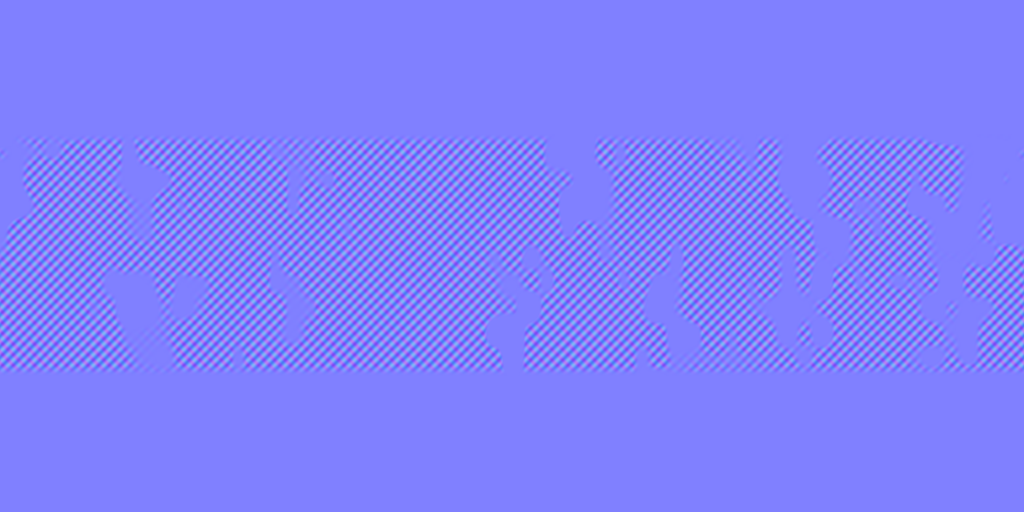
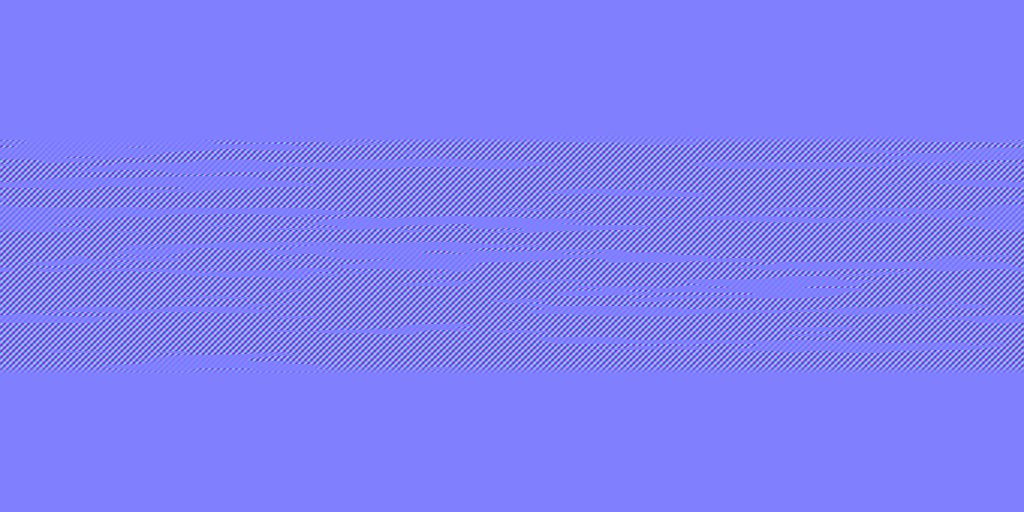
Tyre look: wear stays dark (flattened normal and sheen carry it), belts as a fine wire/textile weave with ragged circumferential rubber remnants

diff --git a/tools/make_tyre_stage_textures.py b/tools/make_tyre_stage_textures.py
@@ -1,5 +1,6 @@
 """Tyre wear overlays: python tools/make_tyre_stage_textures.py  ->  mod/art/surfacefx/tyres/tyre_wear_c.data.png, tyre_cord_c.data.png, tyre_cord_n.normal.png
 Full-atlas DETAIL maps (detailScale 1,1) for the stock tire_01a atlas (1024 x 512, tread = the central band, sidewall lettering above and below). They touch only the tread band, so the lettering stays:
+  tyre_wear_r  roughness detail: a little glossier worn tread
   tyre_wear_c  colour detail (linear data, 0.5 = no change; the engine adds (d * 2 - 1) x strength to the base colour): the worn tread greys and scuffs, less at the shoulders
   tyre_cord_c  colour detail: the belts, tan cord weave with dark rubber remnants
   tyre_cord_n  normal detail: the weave and the remnants
@@ -48,30 +49,37 @@ def save(a, name, mode=None):
     img.save(os.path.join(OUT, name))
 
 
-# worn: the colour added on top of the stock tread (linear): about +0.11 at the centre, patchy, with scuff streaks round the tyre
+# worn: only a slight lift of the stock tread tone (linear, about +0.035 at the centre, patchy, less at the shoulders); the wear is carried by the flattened normal and the sheen map
 patch = noise(16, 6, 1) * 0.5 + noise(64, 24, 2) * 0.3 + noise(256, 12, 3) * 0.2
 streak = noise(8, 96, 4)
-delta = (0.075 + 0.07 * patch + 0.03 * streak) * shoulder * inband
-wear = 0.5 + 0.5 * delta[..., None] * np.array([1.0, 0.96, 0.88])      # a little warm grey
+delta = (0.022 + 0.02 * patch + 0.01 * streak) * shoulder * inband
+wear = 0.5 + 0.5 * delta[..., None] * np.array([1.0, 0.97, 0.92])
 save(wear.astype(np.float32), 'tyre_wear_c.data.png')
+# sheen: the roughness detail (0.5 = no change, lower = shinier, the engine adds (d * 2 - 1) x strength to the stock roughness): a smooth worn tread is a little glossier, most at the centre
+sheen = 0.5 - 0.5 * (0.45 + 0.1 * patch) * shoulder * inband
+save(sheen[..., None].repeat(3, -1).astype(np.float32), 'tyre_wear_r.data.png')
 
-# cord: weave of two thread sets at +-45 degrees; remnants of rubber where a noise field is high (they keep the stock dark tread)
-wu = (U * 96 + V * 48) % 1.0
-wv = (U * 96 - V * 48) % 1.0
-thread = 0.5 + 0.5 * np.maximum(np.sin(2 * np.pi * wu), np.sin(2 * np.pi * wv))
-over = (np.sin(2 * np.pi * (U * 48)) * np.sin(2 * np.pi * (V * 24)) > 0)        # which set lies on top
-weave = np.where(over, 0.55 + 0.45 * np.sin(2 * np.pi * wu) ** 2, 0.55 + 0.45 * np.sin(2 * np.pi * wv) ** 2)
-remnant = smooth(noise(14, 5, 5) * 0.6 + noise(56, 20, 6) * 0.4, 0.55, 0.68)     # 1 = rubber left
+# belts: a fine diagonal weave (silver steel wire in some zones, pale tan textile in others) and TORN rubber left in long ragged streaks along the rolling direction (few cells round, many across)
+wu = (U * 170 + V * 85) % 1.0
+wv = (U * 170 - V * 85) % 1.0
+over = (np.sin(2 * np.pi * (U * 85)) * np.sin(2 * np.pi * (V * 42)) > 0)
+weave = np.where(over, 0.35 + 0.65 * np.sin(np.pi * wu) ** 2, 0.35 + 0.65 * np.sin(np.pi * wv) ** 2)
+streaks = noise(5, 56, 5) * 0.55 + noise(14, 150, 6) * 0.3 + noise(40, 220, 8) * 0.15       # ragged: long in U
+remnant = smooth(streaks, 0.56, 0.62) * (0.6 + 0.4 * noise(3, 9, 9))
 cordmask = inband * (1 - remnant)
-cord_delta = np.array([0.30, 0.22, 0.12])[None, None, :] * (0.5 + 0.5 * weave)[..., None] * cordmask[..., None]
-cord_delta += np.array([0.03, 0.03, 0.03])[None, None, :] * (inband * remnant)[..., None]      # remnants: only a little lighter than the tread
+zone = smooth(noise(9, 30, 10), 0.45, 0.58)                                                    # 1 = textile, 0 = steel wire
+steel = np.array([0.15, 0.16, 0.18])
+tan = np.array([0.30, 0.22, 0.12])
+tone = steel[None, None, :] * (1 - zone[..., None]) + tan[None, None, :] * zone[..., None]
+cord_delta = tone * (0.3 + 0.7 * weave)[..., None] * cordmask[..., None]
+cord_delta += np.array([0.012, 0.012, 0.012])[None, None, :] * (inband * remnant)[..., None]      # the torn rubber stays dark
 save((0.5 + 0.5 * cord_delta).astype(np.float32), 'tyre_cord_c.data.png')
 
-# cord normal: slopes of the two threads (OpenGL, green up), flat outside the band and on the remnants
+# belts normal: the thread slopes, strong, flat on the rubber remnants (OpenGL, green up)
 gx = np.cos(2 * np.pi * wu) * 0.5 + np.cos(2 * np.pi * wv) * 0.5
 gy = np.cos(2 * np.pi * wu) * 0.5 - np.cos(2 * np.pi * wv) * 0.5
-amp = 0.45 * cordmask
+amp = 0.8 * cordmask
 nx, ny = gx * amp, gy * amp
 nz = np.sqrt(np.clip(1 - nx ** 2 - ny ** 2, 0, 1))
 save(np.stack([0.5 + 0.5 * nx, 0.5 + 0.5 * ny, 0.5 + 0.5 * nz], -1).astype(np.float32), 'tyre_cord_n.normal.png')
-print('wrote tyre_wear_c.data.png, tyre_cord_c.data.png, tyre_cord_n.normal.png to', os.path.abspath(OUT))
+print('wrote tyre_wear_c.data.png, tyre_wear_r.data.png, tyre_cord_c.data.png, tyre_cord_n.normal.png to', os.path.abspath(OUT))

diff --git a/tools/make_tyre_stage_materials.py b/tools/make_tyre_stage_materials.py
@@ -11,14 +11,15 @@ ART = '/art/surfacefx/tyres/'
 # The tyre materials whose atlas the overlays of make_tyre_stage_textures.py fit (the tread is the central band of the 1024 x 512 map): only these get stage materials. The other tyre materials of the
 # game have other atlases (checked by eye on a contact sheet; some are radial) and keep their normal look.
 FAMILY = ('tire', 'tire_01a')
-WEAR, CORD, CORD_N = ART + 'tyre_wear_c.data.png', ART + 'tyre_cord_c.data.png', ART + 'tyre_cord_n.normal.png'
-# stage -> (strength of the car's own tread normal, colour detail map, its strength, detail normal map, its strength)
+WEAR, WEAR_R, CORD, CORD_N = ART + 'tyre_wear_c.data.png', ART + 'tyre_wear_r.data.png', ART + 'tyre_cord_c.data.png', ART + 'tyre_cord_n.normal.png'
+# stage -> (strength of the car's own tread normal, colour detail map, its strength, roughness detail strength, detail normal map, its strength)
+# the wear is carried by the flattened tread normal and the sheen, the colour only lifts a little; the belts get the weave colour and a strong weave normal
 STAGES = {
-    1: (0.9, WEAR, 0.12, None, 0),
-    2: (0.65, WEAR, 0.35, None, 0),
-    3: (0.4, WEAR, 0.7, None, 0),
-    4: (0.15, WEAR, 1.3, CORD_N, 0.12),
-    5: (0.05, CORD, 1.0, CORD_N, 1.0),
+    1: (0.9, WEAR, 0.4, 0.15, None, 0),
+    2: (0.65, WEAR, 0.8, 0.3, None, 0),
+    3: (0.4, WEAR, 1.2, 0.5, None, 0),
+    4: (0.12, WEAR, 1.8, 0.7, None, 0),
+    5: (0.05, CORD, 1.0, 0.0, CORD_N, 1.0),
 }
 
 z = zipfile.ZipFile(sys.argv[1])
@@ -30,11 +31,14 @@ out = {}
 for name in FAMILY:
     m = src[name]
     st = (m.get('Stages') or [{}])[0]
-    for k, (ns, dmap, dstr, nmap, nstr) in STAGES.items():
+    for k, (ns, dmap, dstr, rstr, nmap, nstr) in STAGES.items():
         s = dict(st)
         s['normalMapStrength'] = ns
         s['detailMap'] = dmap
         s['detailBaseColorMapStrength'] = dstr
+        if rstr:
+            s['roughnessDetailMap'] = WEAR_R
+            s['detailRoughnessMapStrength'] = rstr
         if nmap:
             s['detailNormalMap'] = nmap
             s['detailNormalMapStrength'] = nstr
